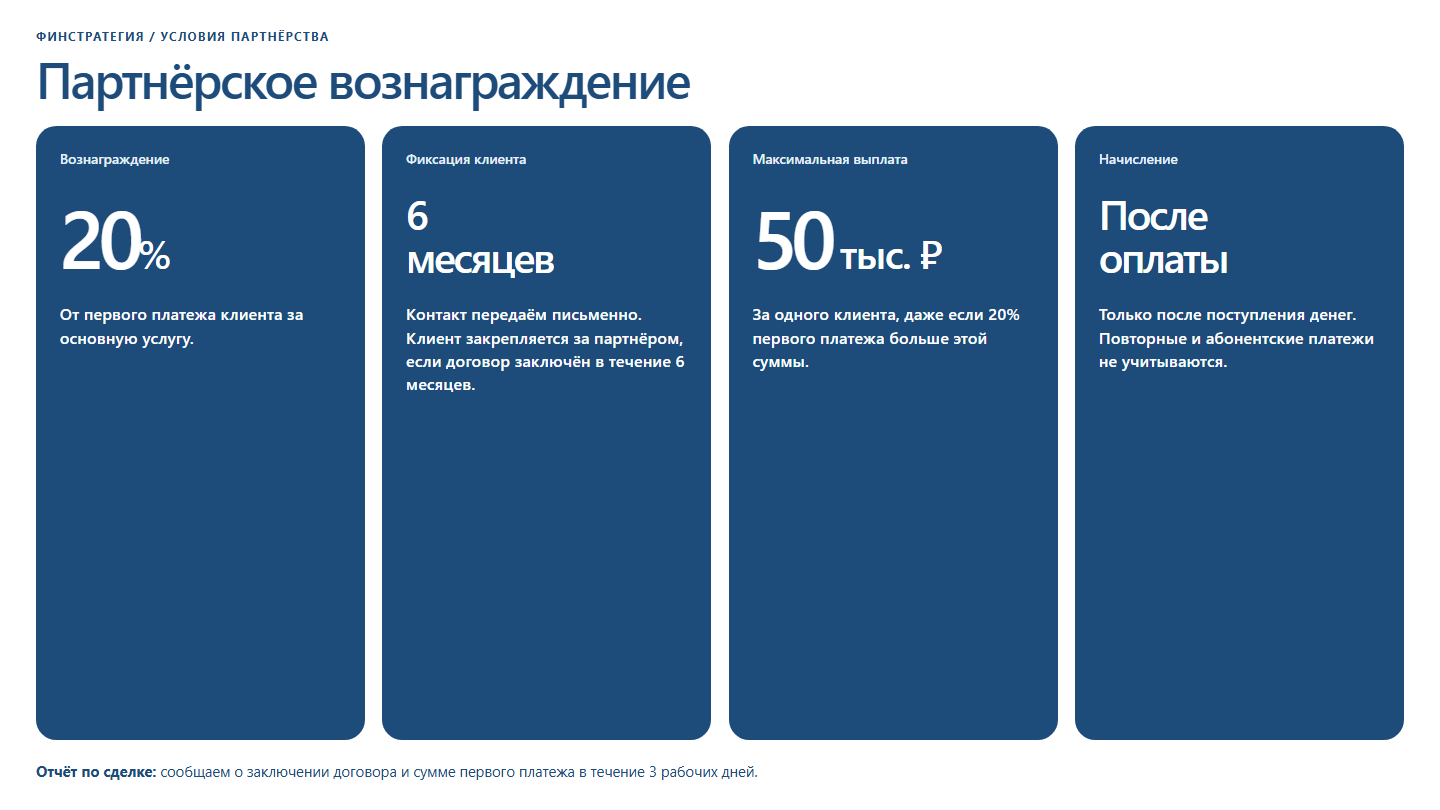
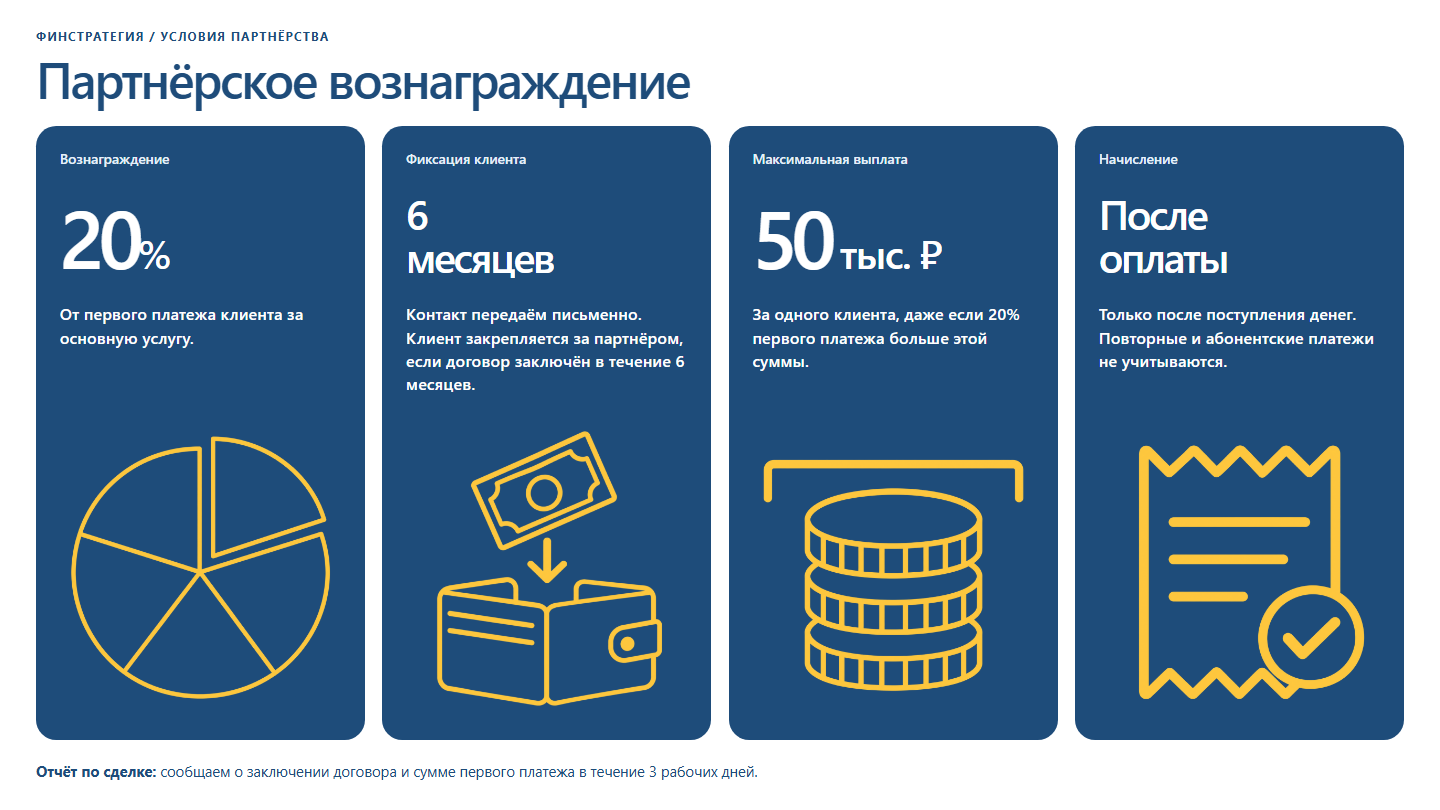
Restore slide 5 illustrations

diff --git a/index.html b/index.html
@@ -45,7 +45,7 @@ body::-webkit-scrollbar,html::-webkit-scrollbar{display:none;width:0;height:0}
 <section class="page"><div class="frame"><img src="assets/slides/slide-02.png" alt="Слайд 2. Концепция совместного эфира" draggable="false"></div></section>
 <section class="page"><div class="frame"><img src="assets/slides/slide-03.png" alt="Слайд 3. Что получает канал и аудитория" draggable="false"></div></section>
 <section class="page"><div class="frame"><img src="assets/slides/slide-04.png" alt="Слайд 4. Анастасия Кутузова" draggable="false"><a class="hotspot" href="https://t.me/kutuzova_profinance" target="_blank" rel="noopener" aria-label="Открыть Telegram-канал Анастасии" style="left:2%;top:55%;width:25%;height:18%"></a></div></section>
-<section class="page"><div class="frame"><img src="assets/slides/slide-05.png" alt="Слайд 5. Партнёрское вознаграждение" draggable="false"></div></section>
+<section class="page"><div class="frame"><img src="assets/slides/slide-05.png?v=2" alt="Слайд 5. Партнёрское вознаграждение" draggable="false"></div></section>
 <section class="page"><div class="frame"><img src="assets/slides/slide-06.png" alt="Слайд 6. Контакты для обсуждения эфира" draggable="false"><a class="hotspot" href="https://t.me/apolygalovv" target="_blank" rel="noopener" aria-label="Написать Артуру в Telegram" style="left:5%;top:68%;width:48%;height:11%"></a><a class="hotspot" href="https://t.me/kutuzova_profinance" target="_blank" rel="noopener" aria-label="Открыть Telegram-канал Анастасии" style="left:5%;top:80%;width:48%;height:11%"></a><a class="hotspot" href="https://t.me/apolygalovv" target="_blank" rel="noopener" aria-label="Открыть Telegram Артура по QR-блоку" style="left:65%;top:20%;width:28%;height:68%"></a></div></section>
 
 <div class="counter" id="counter">1 / 6</div>
